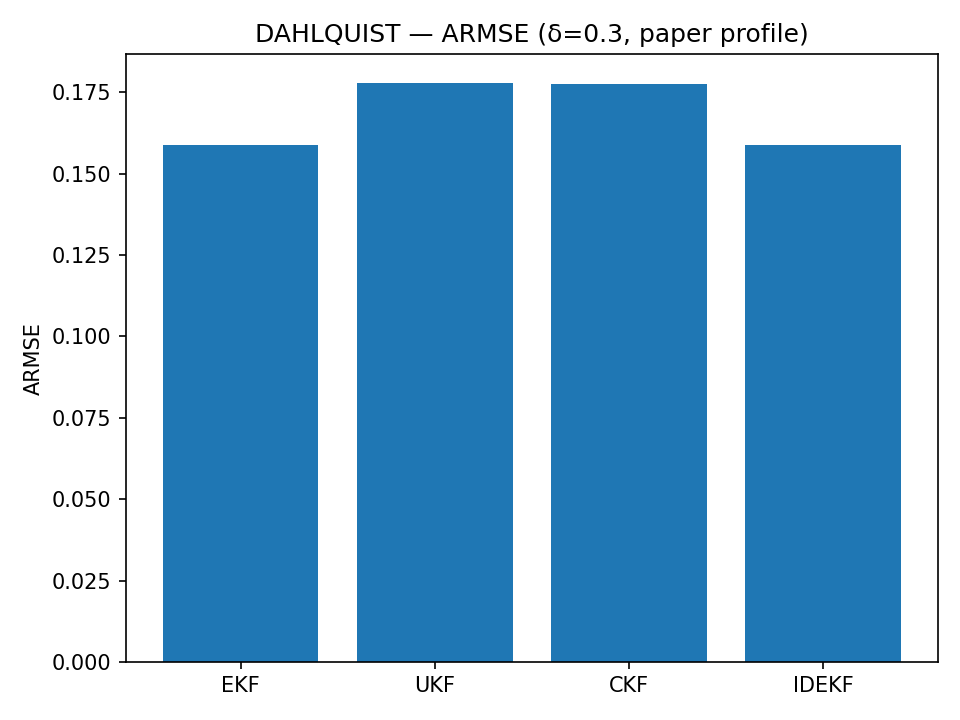
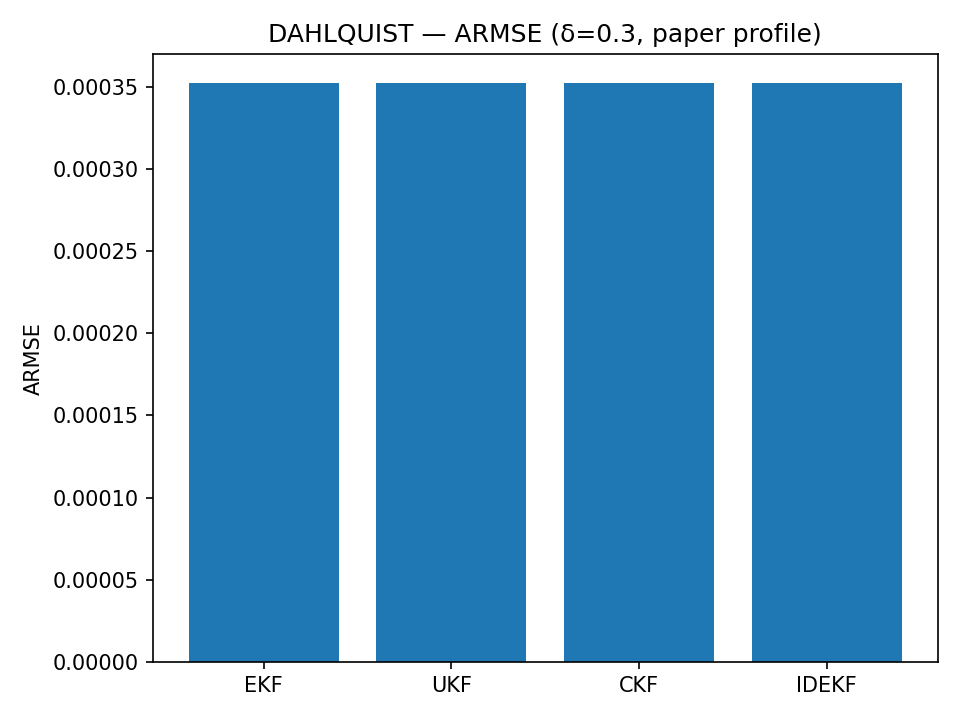
edits

diff --git a/run_armse.py b/run_armse.py
@@ -45,16 +45,16 @@ def run_cd(case: str, deltas: List[float], N_runs: int, seed: int, outdir: str,
     results = {}
 
     # Paper profile (used for both truth ODE and filter MDEs)
-    integ_method = "Radau"
-    truth_rtol, truth_atol = 1e-12, 1e-12
-    flt_rtol, flt_atol = 1e-12, 1e-12
+    integ_method = "BDF"
+    truth_rtol, truth_atol = 1e-6, 1e-6
+    flt_rtol, flt_atol = 1e-6, 1e-6
     max_step_abs = 1.0e-1
 
     # Problem setup
     for delta in deltas:
         if case == "dahlquist":
             # Nonlinear Dahlquist; choose stable negative mu and j=3
-            mu, j = -1.0e4, 5
+            mu, j = -1.0e4, 1
             f, J = dahlquist_f(mu, j), dahlquist_J(mu, j)
             G, Qc = dahlquist_G(), dahlquist_Qc()  # used only in filter covariance MDE
             x0 = np.array([1.0], dtype=float)
